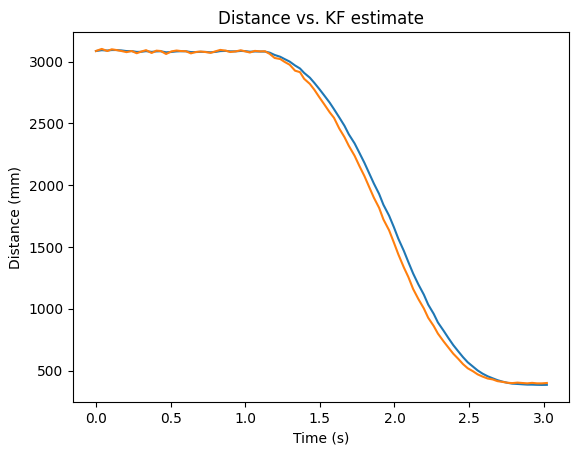
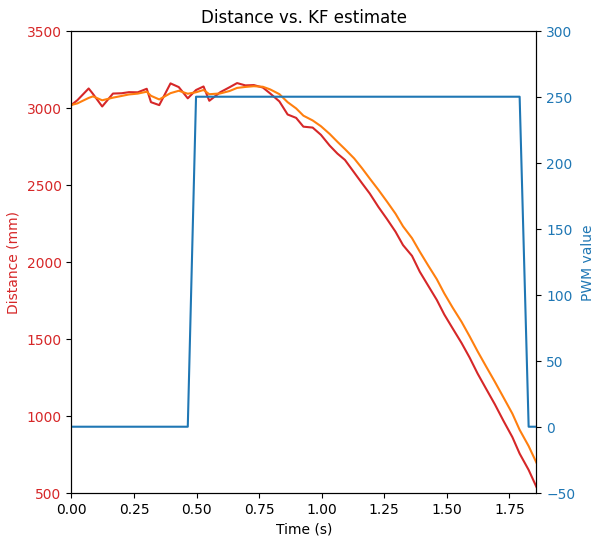
lab 7 final final

Changed region(s): [[0.0, 0.0, 0.9965, 0.989]]

diff --git a/docs/labs/Lab-7.md b/docs/labs/Lab-7.md
@@ -13,46 +13,114 @@ slow time-of-flight sensor, allowing the robot to do the [Lab 6][Lab6] task
 
 [Lab6]:Lab-6
 
-# Step response
+# System Model
 
-To estimate the drag and mass of the robot, I powered the wheels with a step 
-function. The max PWM value was set to 250, which is around the value I got out
-of my PID controller. The robot started 4m away from a wall.
+The forces acting on the robot can be summarized as
 
-The measured distance to the wall and PWM value is shown below:
+$$\begin{align}
+F = u\cdot c - x'\cdot d = m \cdot x''
+\end{align}$$
+
+where $$ u $$ is the PWM control value, $$ x $$, $$ x' $$, and $$ x'' $$ are
+position, velocity, and acceleration, and $$ c $$, $$ d $$, and $$ m $$ are
+unknown constants. We can rewrite this as
+
+$$\begin{align}
+\begin{bmatrix} x' \\ x'' \end{bmatrix} = \begin{bmatrix} 0 & 1 \\ 0 & -d/m \end{bmatrix}
+\begin{bmatrix} x \\ x' \end{bmatrix} + \begin{bmatrix} 0 \\ c/m \end{bmatrix} u
+\end{align}$$
+
+or,
+
+$$\begin{align}
+\frac{d}{dt} \vec{x} = \mathbf{A} \vec{x} + \mathbf{B} u
+\end{align}$$
+
+To get $$ \mathbf{A} $$ and $$ \mathbf{B} $$ we need $$ d/m $$ and $$ c/m $$,
+which we can get by solving the differential equation 
+$$ x'' + \frac{d}{m} x' = \frac{c}{m}u $$.
+
+## Maximum Speed
+
+If $$ u $$ is held constant at some value $$ u_{\text{max}} $$, then the robot 
+stops accelerating once it hits its maximum speed. This means 
+$$ x' = x'_{\text{max}} $$ and $$ x'' = 0 $$. Plugging and solving gives us 
+$$ x'_{\text{max}} = u_{\text{max}}c/d $$, or 
+
+$$\begin{align}
+d = \frac{u_{\text{max}}}{x'_{\text{max}}}c
+\end{align}$$
+
+## Ramping-up
+
+If we solve the differential equation for $$ x' $$ with the initial condition
+that $$ x'(t) = 0 $$, we get:
+
+$$\begin{align}
+x'(t) = x'_{\text{max}} \cdot \left( 1 - e^{-d \cdot t/m} \right)
+\end{align}$$
+
+This means that, if $$ u $$ is constant, the robot ramps up exponentially to its
+maximum speed. The robot is at 90% of its max speed when
+
+$$\begin{align}
+1 - e^{-d \cdot t/m} &= 0.9
+\end{align}$$
+
+Labeling this time-to-90% as $$ t_{90} $$ we can solve for $$ m $$:
+
+$$\begin{align}
+m = -\frac{d\cdot t_{90}}{\ln(0.1)}
+\end{align}$$
+
+Using these expressions for $$ d $$ and $$ m $$ we can solve for the unknown
+coefficients in $$ \mathbf{A} $$ and $$ \mathbf{B} $$:
+
+$$\begin{align}
+\mathbf{A} &= \begin{bmatrix} 0 & 1 \\ 0 & \frac{\ln(0.1)}{t_{90}} \end{bmatrix}\\
+\mathbf{B} &= \begin{bmatrix} 0 \\ -\frac{\ln(0.1)}{t_{90}}\cdot\frac{x'_{\text{max}}}{u_{\text{max}}} \end{bmatrix}
+\end{align}$$
+
+# Step Response
+
+To measure $$ x'_{\text{max}} $$ and $$ t_{90} $$ I powered the robot with a 
+step function and measured the response. I set the control PWM value to a 
+constant $$ u_\text{max} = $$ 250, and powered it for 1.3 seconds, starting 3 
+meters away from a wall.
+
+This was the PWM value over time:
 
 <p align="center">
-<img src="/img/Lab7/step_distance.png">
+<img src="/img/Lab7/step_pwm.png">
 </p>
 
-The velocity (time derivative of distance to wall) is plotted below:
+The position and velocity are plotted below:
 
 <p align="center">
-<img src="/img/Lab7/step_speed.png">
+<img src="/img/Lab7/step_distance_speed.png">
 </p>
 
-The maximum speed reached by the robot was about 3 m/s. It didn't reach a 
-steady-state speed, since I couldn't start the robot further away from the wall
-than 4 meters or else my sensor readings wouldn't be accurate. I can estimate 
-the steady-state speed of the robot is around 3 m/s.
-
-Based on this, the drag value I used was 
-$$ d = u/x' = 1/(3000 mm/s) = 0.000333 $$. 
+The robot reached a steady-state speed of 3 m/s briefly before crashing into the
+wall (this is the moment the data ends). So, we can say that 
+$$ x_{\text{max}} = 3000 $$ mm/s when $$ u_{\text{max}} = 250 $$.
 
 The time taken to reach 90% of the steady state speed, starting from 0 velocity,
-was around 0.7 seconds:
+was around 0.9 seconds:
 
 <p align="center">
-<img src="/img/Lab7/speed_annotated.png">
+<img src="/img/Lab7/time_to_90.png">
 </p>
 
-Based on this, I estimated the inertia as 
-$$ m = -d*t_{0.9}/ln(1-0.9) = 0.000101 $$.
+Based on these observations, I solved for the unknowns to get 
+$$ A_{2,2} = -2.56 $$ and $$ B_{2,1} = 30.7 $$.
+
+$$ c $$ is still unknown, but if we assume $$ u_{\text{max}}c = 1 $$ newton, 
+then we get a damping coefficient of $$ d = 0.333 $$ Ns/m, and a mass of 
+$$ m = 0.130 $$ kg.
 
 # Kalman Filter
 
-After finding these values I plugged them into [this code written by Anya last 
-year][Anya] to get a Kalman filter:
+I modified [this code written by Anya last year][Anya] to get a Kalman filter:
 
 [Anya]:https://anyafp.github.io/ece4960/labs/lab7/
 
@@ -60,12 +128,9 @@ year][Anya] to get a Kalman filter:
 # Initial state uncertainty 
 sig = np.array([[5**2,0],[0,5**2]])
 
-d = 0.000333 # drag
-m = 0.000101 # mass
-
 # A, B, C matrices
-A = np.array([[0,1],[0,-d/m]])
-B = np.array([[0],[1/m]])
+A = np.array([[0,1],[0,-2.56]])
+B = np.array([[0],[30.7]])
 C = np.array([[-1,0]])
 
 # Process and sensor noise
@@ -82,7 +147,6 @@ x = np.array([[-distancesMM[0]],[0]])
 
 # KF estimation
 def kf(x,u,sig,y):
-    
     x_p = Ad.dot(x) + Bd.dot(u)                      # predicted state
     sig_p = Ad.dot(sig.dot(Ad.transpose())) + sig_u  # predicted state uncertainty
     
@@ -112,6 +176,9 @@ for u, d in zip(values, distancesMM):
 <p align="center">
 <img src="/img/Lab7/kf.png">
 </p>
+
+The Kalman filter successfully smooths out the sensor values and increases the
+number of "readings" we get, although it also introduces some delay.
 
 # Extrapolation
 
